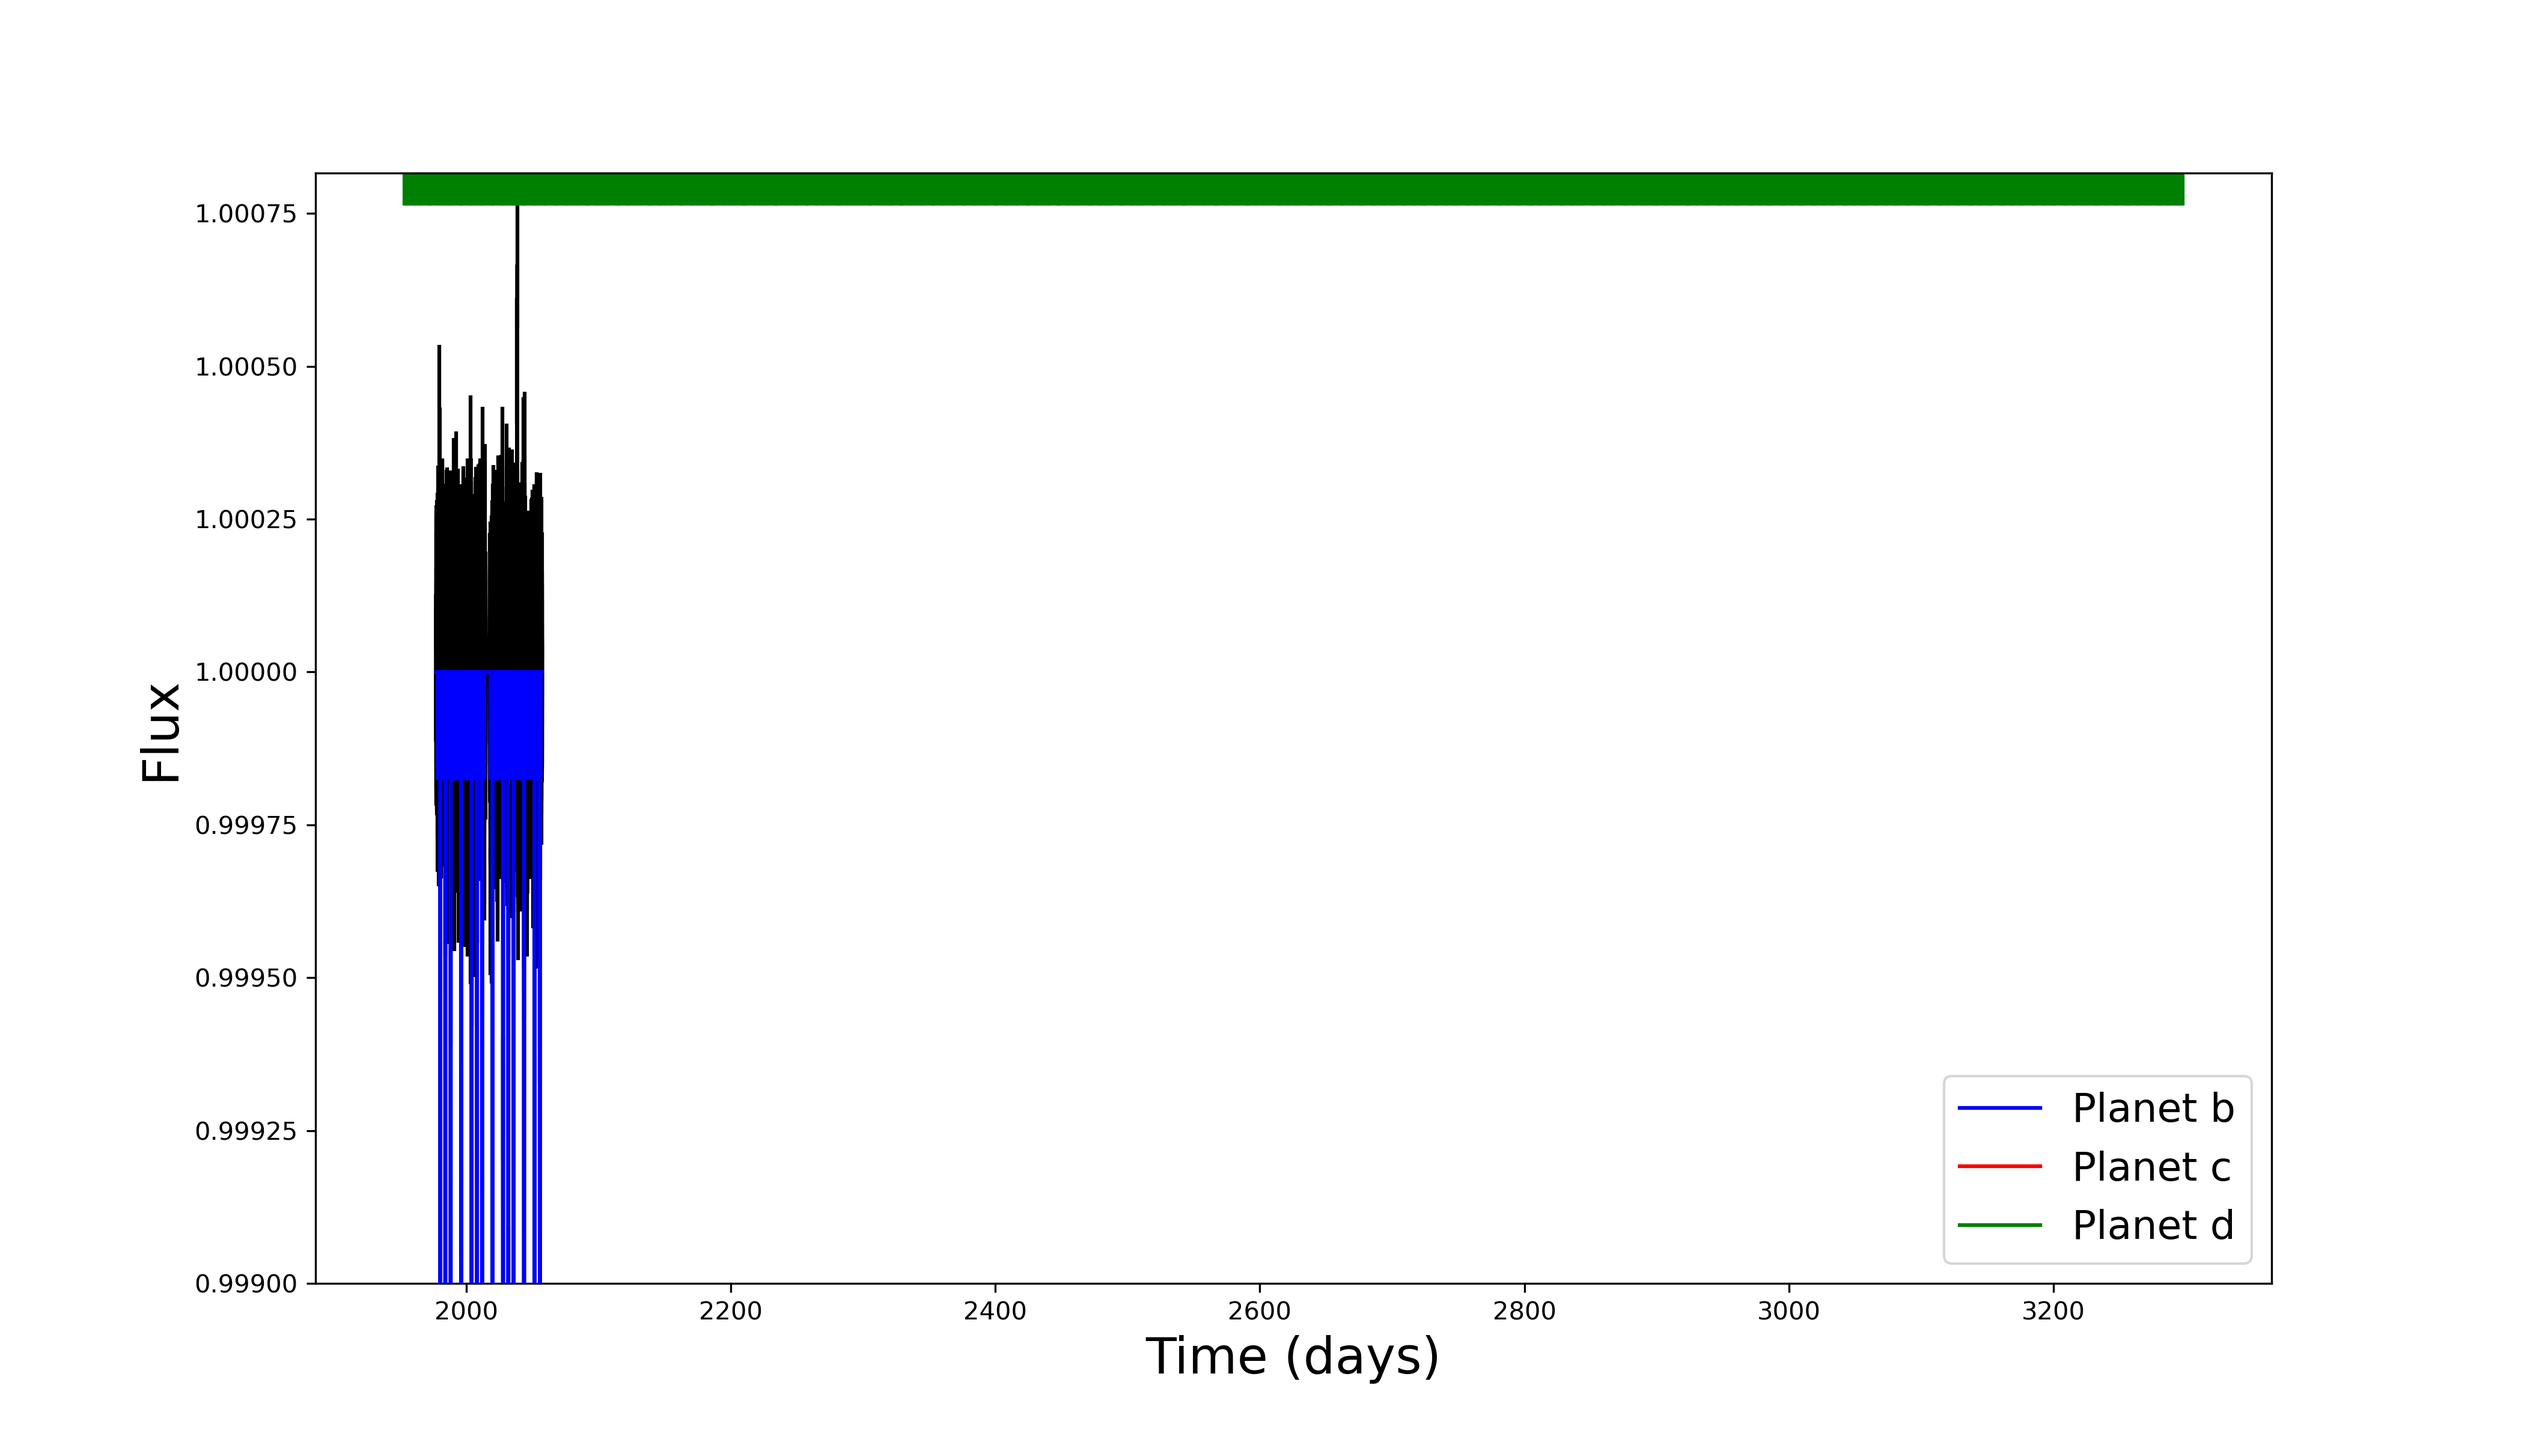
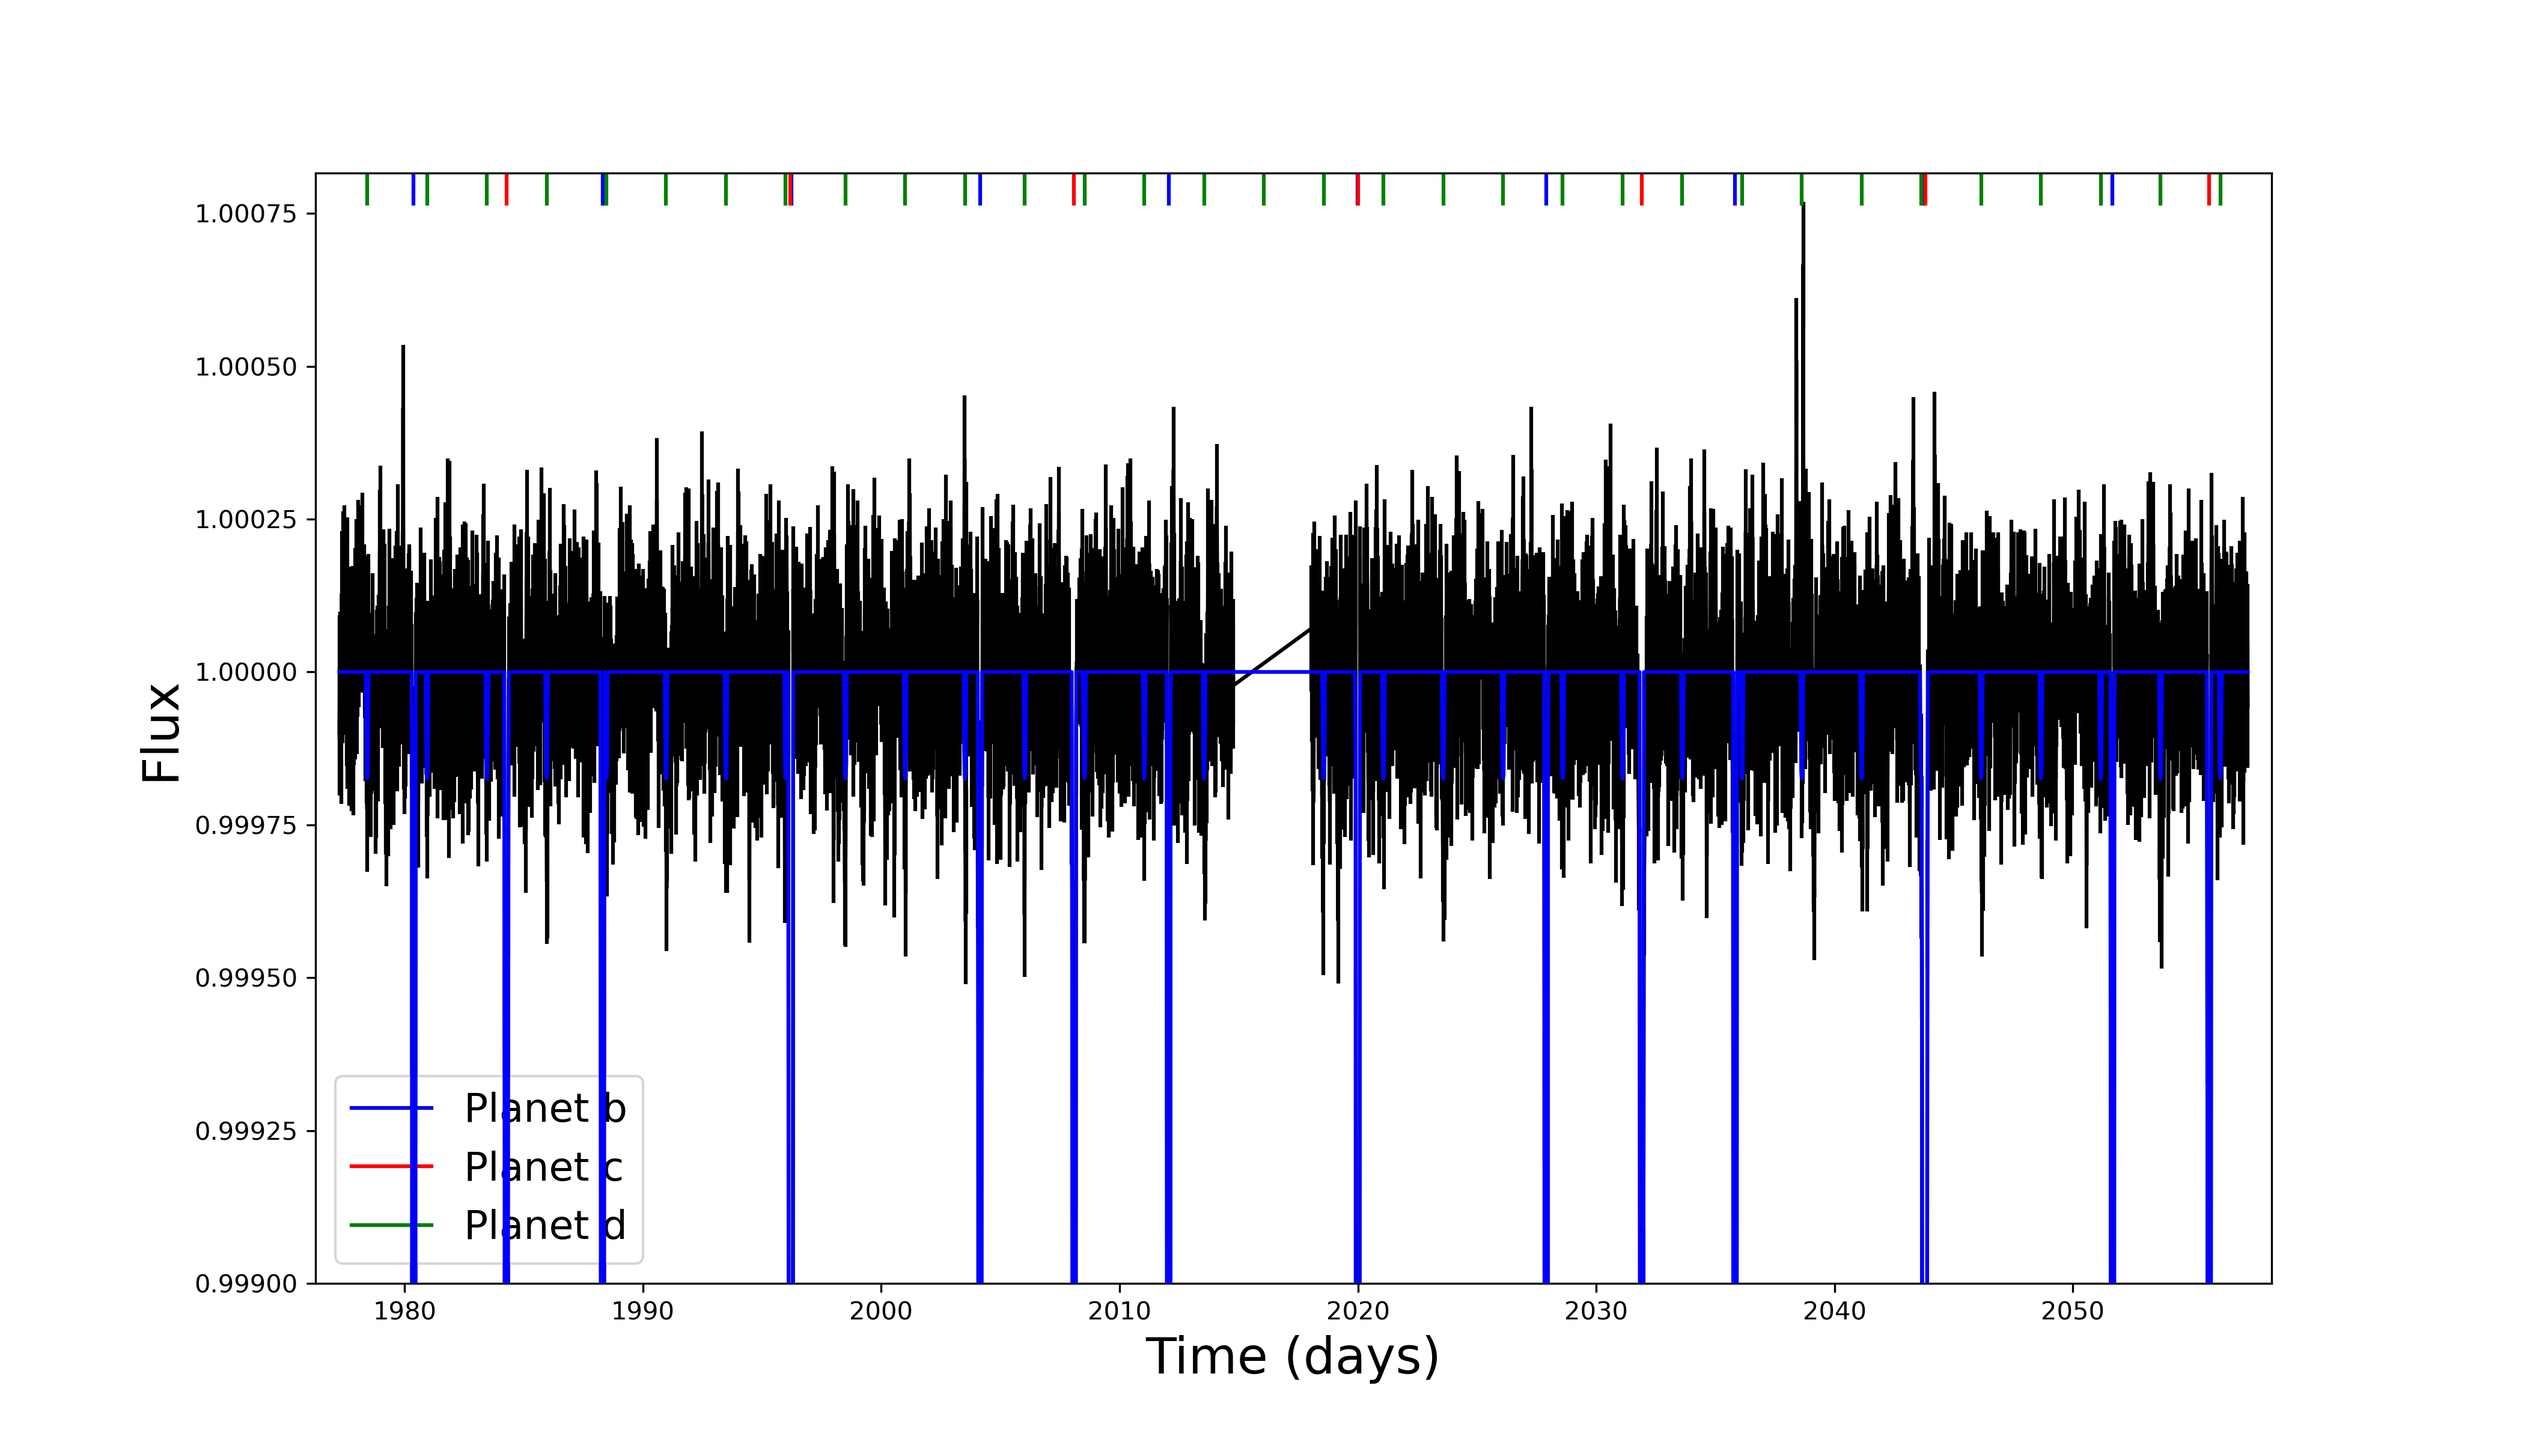
Fixed range issues

diff --git a/runs/k2-19/LC_Plot.py b/runs/k2-19/LC_Plot.py
@@ -1,5 +1,5 @@
 ### Edit this range to plot a different segment of data
-trange = [[100., 150.], [300, 350]]
+trange = [[2000., 2050.]]
 #
 
 import numpy as np
@@ -25,6 +25,8 @@ def plotlc(time, flux, error, model, outname, zoomrange=None):
 
 
     top = np.max(flux + 0.0001)
+    timemin = np.min(time)
+    timemax = np.max(time)
 
     tbv = glob.glob("./tbv[0-9][0-9]_[0-9][0-9].out")
     for i in range(len(tbv)):
@@ -41,6 +43,7 @@ def plotlc(time, flux, error, model, outname, zoomrange=None):
     plt.ylabel('Flux', fontsize=20)
     savestr = 'lcplot'
 
+    plt.xlim(timemin-1, timemax + 1)
     plt.ylim(0.999, top+1e-4/2)
     plt.legend(fontsize=16)
     plt.savefig(outname+'_all.png',dpi=300)
